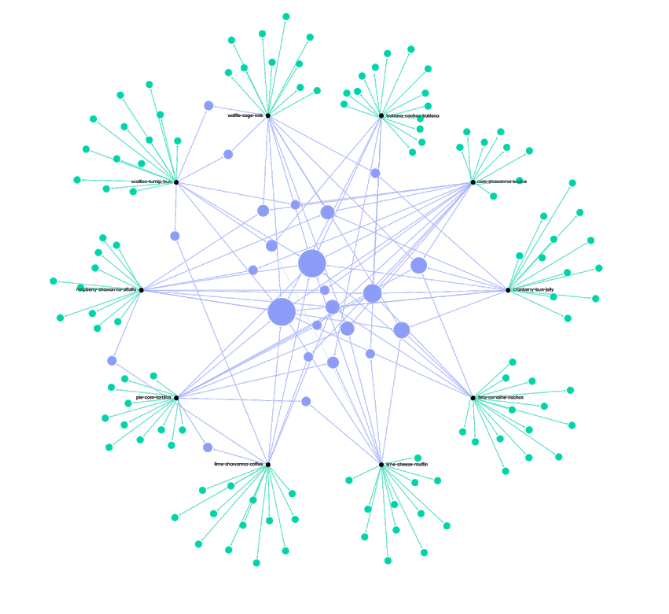
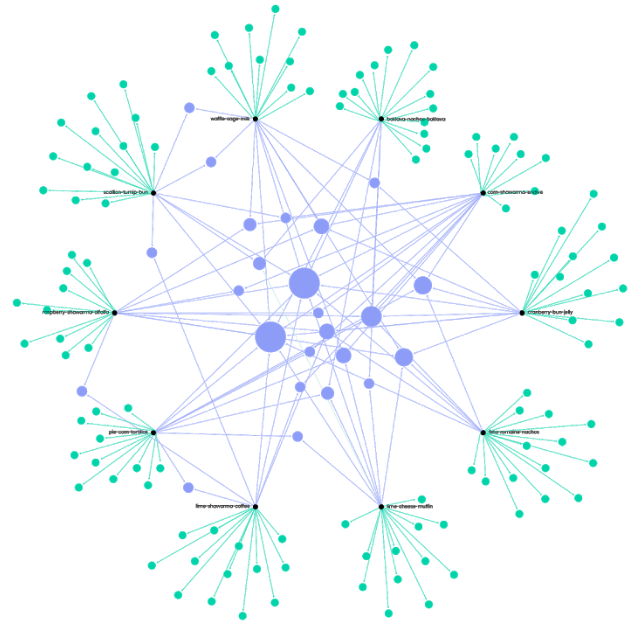
the three DMI report are now simmetric

diff --git a/content/_index.md b/content/_index.md
@@ -9,12 +9,13 @@ layout: home
 
 ---
  <h1> Our last collective observations: </h1>
+ <br>
 
 <div class="card-deck">
     <div class="row">
          {{<researchCard
-            title="FiterTUbe: Echo chambers, Filter Bubble and Polarization during US elections."
-            text="Collective project made during the Digital Methods Winter School 2021. This paper studies the construction of filter bubbles and political polarization under YouTube 's algorithmic personalization. "
+            title="FiterTUbe: Echo chambers, Filter Bubble and Polarization"
+            text=" During the US elections, we realized a collective project at the Digital Methods Winter School 2021. We simulated echo chambers, we studied the construction of filter bubbles and consequent political polarization of suggestions."
             when="Jan. 2021"
             reportLink="https://www.digitalmethods.net/Dmi/WinterSchool2021FIterTube"
             slidesLink="https://github.com/tracking-exposed/presentation/blob/master/FilterTube-DMIWS21.pdf"
@@ -22,7 +23,7 @@ layout: home
             picture="/images/filtertube-title2.png" >}}
         {{<researchCard
             title="Trexit: Polarization and Reinforcement during Brexit"
-            text=" A three days analysis of the algorithm with ten researchers from all over the world. The research aims to split the group in two and see how YT considers different activities to personalize the following recommendation."	
+            text="During Brexit, we made a three days analysis of the algorithm with ten researchers from all over the world. The research aims to split the group in two and see how YT considers different activities to personalize the following recommendation."	
             when="Jan. 2020"
             reportLink="https://wiki.digitalmethods.net/Dmi/WinterSchool2020youtube"
             slidesLink="https://github.com/tracking-exposed/presentation/blob/master/TREXIT_finalslides.pdf"
@@ -30,14 +31,15 @@ layout: home
             href="/trexit"
             picture="/images/TREXIT-title2.jpeg" >}}
         {{<researchCard
-            title="Compare and Guess"
-            text="Our first research with a dozen of students: we began by mapping Youtube personalization differences and distances. Watching a video for a few seconds more is enough to get different recommendations."
+            title="Personalization: every second matters"
+            text="Our first research with a dozen of students: we began by mapping Youtube personalization differences and distances. Watching a video for a few seconds more is enough to get different recommendations. We tested the sperimental 'clean browser'."
             when="July 2019"
             reportLink="https://github.com/tracking-exposed/presentation/blob/master/ytTREX%20-%20final%20report%20-%20Summer%20School%2019.pdf"
             slidesLink="https://github.com/tracking-exposed/presentation/blob/master/ALEX%20-%20ytTREX%20-%20Summer%20School%2019.pdf"
             href="/results"
             picture="/images/compare.png" >}}
     </div>
+    <br><br>
     <div class="raw">
         <h1> What we have done, year by year: </h1>
         <h5>2020</h5>
